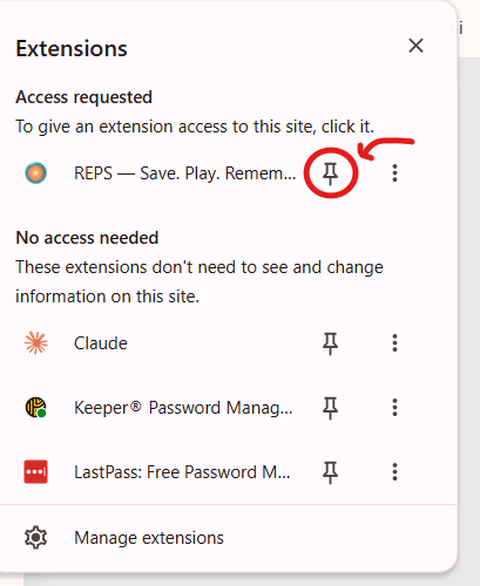
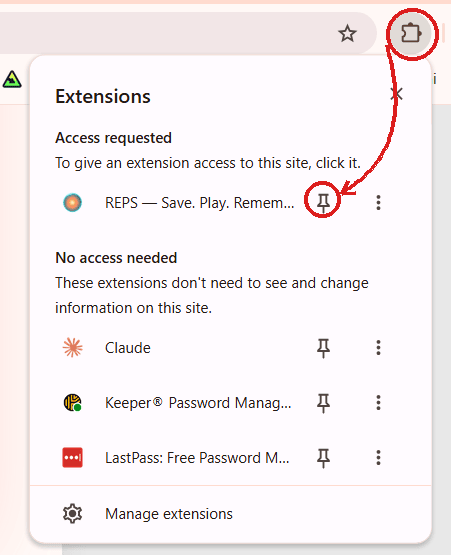
chrome: TestFlight prereq callout + bottom reminder
Pairing the extension requires the latest REPS app build. Add a teal
callout between hero and Add-to-Chrome CTA on chrome.html, plus a
bottom reminder near the install CTA. Mirror the change in the
email-chrome-mockup.html source.

diff --git a/email-chrome-mockup.html b/email-chrome-mockup.html
@@ -27,7 +27,7 @@
     <div><strong>From:</strong> Mike &lt;mike@getreps.io&gt;</div>
     <div><strong>To:</strong> [beta user]</div>
     <div><strong>Subject:</strong> The REPS Chrome extension is live</div>
-    <div style="margin-top:6px; font-style: italic;">Preview text: One click. Articles, videos, podcasts — straight into your REPS. Finally.</div>
+    <div style="margin-top:6px; font-style: italic;">Preview text: Hit Ctrl+Shift+S on any article, video, or podcast — and finally remember it.</div>
   </div>
 
   <!-- ======== EMAIL CONTENT START ======== -->
@@ -53,6 +53,17 @@
       <a href="https://getreps.io/chrome" style="display:block;text-decoration:none;">
         <img src="chrome-hero.gif" alt="Click the REPS icon to save the page. It lands in your REPS as a fresh rep." width="480" style="display:block;width:480px;max-width:100%;height:auto;border:0;outline:0;border-radius:12px;filter:drop-shadow(0 12px 32px rgba(255,107,107,0.22));" />
       </a>
+    </td></tr>
+
+    <!-- TestFlight prereq callout -->
+    <tr><td style="padding:8px 24px 16px;">
+      <table role="presentation" cellspacing="0" cellpadding="0" border="0" width="100%" style="background:#E8F8F6;border:1.5px solid #4ECDC4;border-radius:14px;">
+        <tr><td style="padding:18px 22px;">
+          <p style="font-family:Georgia,'Times New Roman',serif;font-weight:700;font-size:17px;color:#1a1a1a;margin:0 0 6px;">But first — update the REPS app.</p>
+          <p style="font-size:14px;line-height:1.55;color:#1a1a1a;margin:0 0 14px;">Pairing your browser needs the latest TestFlight build. Takes ten seconds.</p>
+          <a href="itms-beta://" style="display:inline-block;background:#4ECDC4;background-image:linear-gradient(135deg,#4ECDC4,#2DB29F);color:#fff;font-size:14px;font-weight:600;padding:11px 22px;border-radius:100px;text-decoration:none;">Update on TestFlight &rarr;</a>
+        </td></tr>
+      </table>
     </td></tr>
 
     <!-- Primary CTA -->
@@ -129,9 +140,15 @@
             <div style="width:32px;height:32px;border-radius:50%;background:#FF6B6B;background-image:linear-gradient(135deg,#FF6B6B,#FF8E53);color:#fff;font-weight:700;font-size:15px;text-align:center;line-height:32px;">4</div>
           </td>
           <td valign="top">
-            <p style="font-family:Georgia,'Times New Roman',serif;font-size:17px;font-weight:700;color:#1a1a1a;margin:0 0 4px;">Save anything you read.</p>
-            <p style="font-size:14px;line-height:1.55;color:#6B6B6B;margin:0 0 8px;">Click the REPS icon. Articles, YouTube videos, podcast pages — they land in your REPS as fresh reps before your next training session.</p>
-            <p style="font-family:ui-monospace,Menlo,Consolas,monospace;font-size:13px;color:#FF6B6B;font-weight:600;margin:0 0 12px;">Ctrl+Shift+S &middot; &#8984;+Shift+S on Mac</p>
+            <p style="font-family:Georgia,'Times New Roman',serif;font-size:17px;font-weight:700;color:#1a1a1a;margin:0 0 4px;">Save with the shortcut.</p>
+            <p style="font-size:14px;line-height:1.55;color:#6B6B6B;margin:0 0 12px;">Hit the <strong style="color:#1a1a1a;">keyboard shortcut</strong> to save the whole page — or highlight a passage first and the same <strong style="color:#1a1a1a;">shortcut</strong> saves just that selection. Articles, YouTube videos, podcast pages — they land in your REPS as fresh reps before your next training session.</p>
+            <table role="presentation" cellspacing="0" cellpadding="0" border="0" style="margin:0 0 14px;"><tr>
+              <td style="background:#FFFAF7;border:1.5px solid #FF6B6B;border-radius:8px;padding:8px 14px;font-family:ui-monospace,Menlo,Consolas,monospace;font-size:15px;color:#FF6B6B;font-weight:700;letter-spacing:0.02em;">Ctrl + Shift + S</td>
+              <td style="padding:0 10px;font-size:13px;color:#6B6B6B;">or</td>
+              <td style="background:#FFFAF7;border:1.5px solid #FF6B6B;border-radius:8px;padding:8px 14px;font-family:ui-monospace,Menlo,Consolas,monospace;font-size:15px;color:#FF6B6B;font-weight:700;letter-spacing:0.02em;">&#8984; + Shift + S</td>
+              <td style="padding:0 10px;font-size:13px;color:#6B6B6B;">on Mac</td>
+            </tr></table>
+            <p style="font-size:13px;line-height:1.55;color:#6B6B6B;margin:0 0 12px;font-style:italic;">Prefer clicking? The REPS icon in your toolbar does the same thing.</p>
             <img src="chrome-step-3.png" alt="Save this page popup" width="280" style="display:block;width:280px;max-width:100%;height:auto;border:0;border-radius:8px;" />
           </td>
         </tr>
@@ -148,6 +165,9 @@
     <!-- Bottom CTA -->
     <tr><td align="center" style="padding:40px 24px 16px;">
       <a href="https://chromewebstore.google.com/detail/reps-%E2%80%94-save-play-remember/pkklccghmhejmjilhlpokbkdoejhjnbg" style="display:inline-block;background:#FF6B6B;background-image:linear-gradient(135deg,#FF6B6B,#FF8E53);color:#fff;font-size:16px;font-weight:600;padding:16px 32px;border-radius:100px;text-decoration:none;">Install REPS for Chrome</a>
+    </td></tr>
+    <tr><td align="center" style="padding:0 24px 12px;">
+      <p style="font-size:13px;color:#2DB29F;margin:0;font-weight:600;">Reminder &middot; <a href="itms-beta://" style="color:#2DB29F;text-decoration:underline;">update REPS on TestFlight</a> before you pair.</p>
     </td></tr>
     <tr><td align="center" style="padding:0 24px 40px;">
       <p style="font-size:13px;color:#6B6B6B;margin:0;font-weight:500;">Save it or lose it. Most people lose it.</p>

diff --git a/chrome.html b/chrome.html
@@ -132,6 +132,57 @@
       font-weight: 500;
     }
 
+    .testflight-prereq {
+      background: #E8F8F6;
+      border: 1.5px solid #4ECDC4;
+      border-radius: 16px;
+      padding: 24px 28px;
+      margin: 8px auto 24px;
+      max-width: 540px;
+      text-align: center;
+    }
+    .testflight-prereq h3 {
+      font-family: 'Lora', serif;
+      font-weight: 700;
+      font-size: 1.15rem;
+      color: var(--text);
+      margin: 0 0 6px;
+    }
+    .testflight-prereq p {
+      font-size: 0.95rem;
+      color: var(--text);
+      margin: 0 0 14px;
+      line-height: 1.55;
+    }
+    .tf-button {
+      display: inline-block;
+      background: linear-gradient(135deg, #4ECDC4, #2DB29F);
+      color: #fff;
+      font-weight: 600;
+      font-size: 0.95rem;
+      padding: 12px 24px;
+      border-radius: 100px;
+      text-decoration: none;
+      box-shadow: 0 6px 18px rgba(78, 205, 196, 0.28);
+      transition: transform 0.15s ease;
+    }
+    .tf-button:hover { transform: translateY(-1px); }
+
+    .tf-reminder {
+      text-align: center;
+      padding: 0 24px 16px;
+    }
+    .tf-reminder p {
+      font-size: 0.85rem;
+      color: #2DB29F;
+      margin: 0;
+      font-weight: 600;
+    }
+    .tf-reminder a {
+      color: #2DB29F;
+      text-decoration: underline;
+    }
+
     section.update {
       padding: 48px 0 40px;
       position: relative;
@@ -282,9 +333,14 @@
 
     <img class="hero-shot" src="chrome-hero.gif" alt="Click the REPS icon to save the page. It lands in your REPS as a fresh rep." />
 
+    <div class="testflight-prereq">
+      <h3>But first — update the REPS app.</h3>
+      <p>Pairing your browser needs the latest TestFlight build. Takes ten seconds.</p>
+      <a class="tf-button" href="itms-beta://">Update on TestFlight &rarr;</a>
+    </div>
+
     <div class="cta-block">
       <a class="cta-button" href="https://chromewebstore.google.com/detail/reps-%E2%80%94-save-play-remember/pkklccghmhejmjilhlpokbkdoejhjnbg">Add to Chrome — Free</a>
-      <p class="cta-helper">You'll need the REPS app to pair the extension. <a href="itms-beta://" style="color:var(--coral);text-decoration:none;font-weight:600;">Update on TestFlight</a> if you haven't already.</p>
     </div>
 
     <section class="update">
@@ -358,6 +414,9 @@
 
     <div class="cta-block bottom-cta" style="padding-top:48px;">
       <a class="cta-button" href="https://chromewebstore.google.com/detail/reps-%E2%80%94-save-play-remember/pkklccghmhejmjilhlpokbkdoejhjnbg">Install REPS for Chrome</a>
+      <div class="tf-reminder" style="margin-top:14px;">
+        <p>Reminder &middot; <a href="itms-beta://">update REPS on TestFlight</a> before you pair.</p>
+      </div>
       <p class="cta-helper">Save it or lose it. Most people lose it.</p>
     </div>
   </div>
